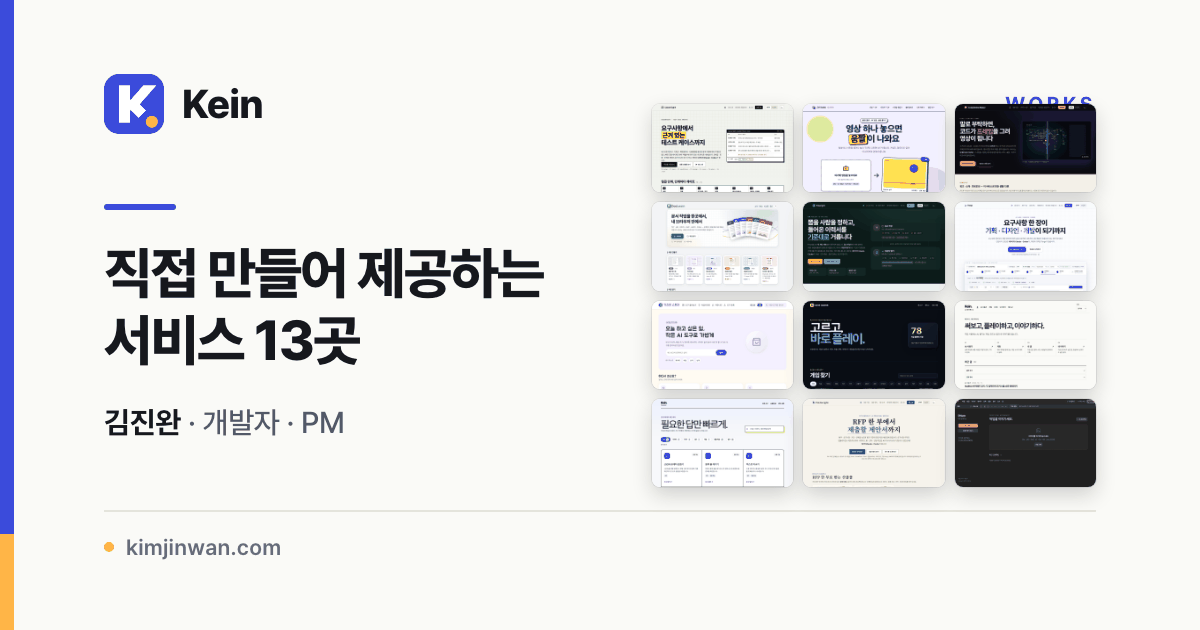
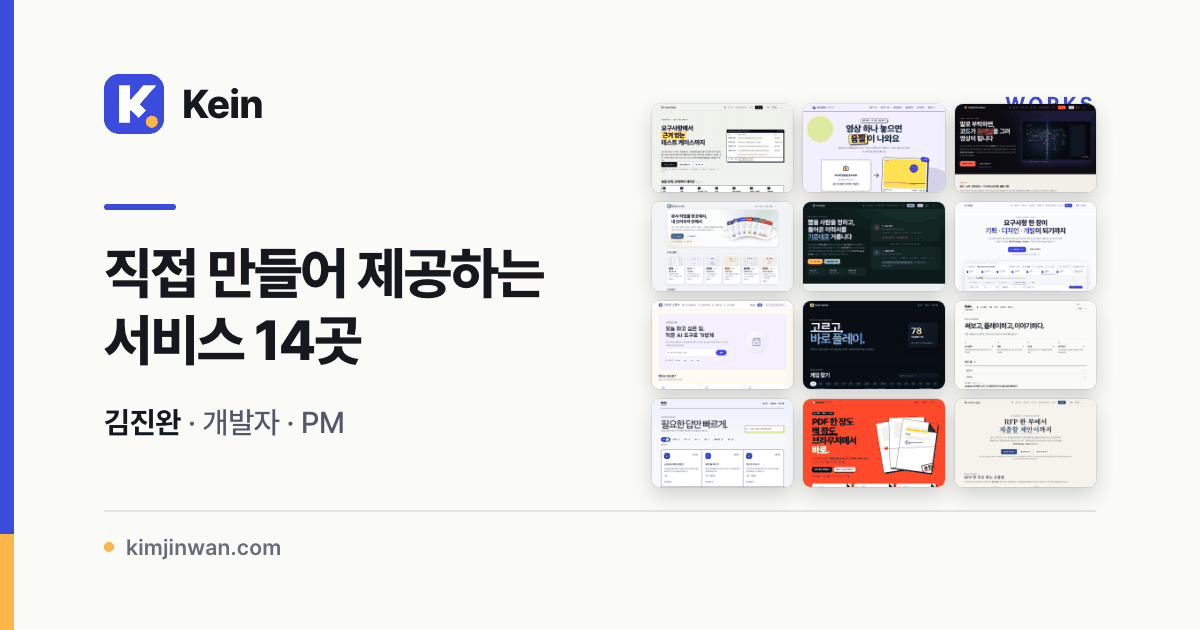
feat(home): Pagefold 서비스 추가 (1.3.32)

diff --git a/index.html b/index.html
@@ -4,7 +4,7 @@
 <meta charset="utf-8">
 <meta name="viewport" content="width=device-width,initial-scale=1">
 <title>김진완 — 개발자 · PM</title>
-<meta name="description" content="개발자·PM 김진완의 홈페이지. 직접 만들어 제공하는 서비스 13곳(문서·업무, 창작, 개발 도구와 웹게임, 웹 도구, 블로그), 그 생산을 맡은 공장 5곳, 11년 현장 경력을 소개합니다.">
+<meta name="description" content="개발자·PM 김진완의 홈페이지. 직접 만들어 제공하는 서비스 14곳(문서·업무, 창작, 개발 도구와 웹게임, 웹 도구, 블로그), 그 생산을 맡은 공장 5곳, 11년 현장 경력을 소개합니다.">
 <meta name="robots" content="index,follow">
 <meta name="author" content="김진완">
 <meta name="google-adsense-account" content="ca-pub-5544615855471151">
@@ -20,7 +20,7 @@
 <meta property="og:locale" content="ko_KR">
 <meta property="og:locale:alternate" content="en_US">
 <meta property="og:title" content="김진완 — 개발자 · PM">
-<meta property="og:description" content="개발자·PM 김진완의 홈페이지. 직접 만들어 제공하는 서비스 13곳(문서·업무, 창작, 개발 도구와 웹게임, 웹 도구, 블로그), 그 생산을 맡은 공장 5곳, 11년 현장 경력을 소개합니다.">
+<meta property="og:description" content="개발자·PM 김진완의 홈페이지. 직접 만들어 제공하는 서비스 14곳(문서·업무, 창작, 개발 도구와 웹게임, 웹 도구, 블로그), 그 생산을 맡은 공장 5곳, 11년 현장 경력을 소개합니다.">
 <meta property="og:url" content="https://kimjinwan.com/">
 <meta property="og:image" content="https://kimjinwan.com/assets/og/home.png?v=5471b7633f">
 <meta property="og:image:secure_url" content="https://kimjinwan.com/assets/og/home.png?v=5471b7633f">
@@ -30,13 +30,13 @@
 <meta property="og:image:alt" content="김진완 소개 영상의 마지막 장면 — 어두운 화면에 김진완, “논리로 만들고, 끝까지 운영합니다”, kimjinwan.com이 적혀 있다">
 <meta name="twitter:card" content="summary_large_image">
 <meta name="twitter:title" content="김진완 — 개발자 · PM">
-<meta name="twitter:description" content="개발자·PM 김진완의 홈페이지. 직접 만들어 제공하는 서비스 13곳(문서·업무, 창작, 개발 도구와 웹게임, 웹 도구, 블로그), 그 생산을 맡은 공장 5곳, 11년 현장 경력을 소개합니다.">
+<meta name="twitter:description" content="개발자·PM 김진완의 홈페이지. 직접 만들어 제공하는 서비스 14곳(문서·업무, 창작, 개발 도구와 웹게임, 웹 도구, 블로그), 그 생산을 맡은 공장 5곳, 11년 현장 경력을 소개합니다.">
 <meta name="twitter:image" content="https://kimjinwan.com/assets/og/home.png?v=5471b7633f">
 <meta name="twitter:image:alt" content="김진완 소개 영상의 마지막 장면 — 어두운 화면에 김진완, “논리로 만들고, 끝까지 운영합니다”, kimjinwan.com이 적혀 있다">
-<script type="application/ld+json">{"@context":"https://schema.org","@graph":[{"@type":"WebSite","@id":"https://kimjinwan.com/#website","url":"https://kimjinwan.com/","name":"Kein — 김진완","alternateName":["김진완 포트폴리오","Kim Jinwan"],"inLanguage":["ko","en"],"publisher":{"@id":"https://kimjinwan.com/#person"}},{"@type":"Person","@id":"https://kimjinwan.com/#person","name":"김진완","alternateName":["Kim Jinwan","Kein"],"url":"https://kimjinwan.com/","jobTitle":["Software Product Manager","Developer"],"knowsAbout":["PM / PO","Full-stack Dev","Team Leadership","AI Production"]},{"@type":"ProfilePage","@id":"https://kimjinwan.com/#profile","url":"https://kimjinwan.com/","name":"김진완 — 개발자 · PM","description":"개발자·PM 김진완의 홈페이지. 직접 만들어 제공하는 서비스 13곳(문서·업무, 창작, 개발 도구와 웹게임, 웹 도구, 블로그), 그 생산을 맡은 공장 5곳, 11년 현장 경력을 소개합니다.","inLanguage":"ko","dateModified":"2026-10-12","mainEntity":{"@id":"https://kimjinwan.com/#person"},"isPartOf":{"@id":"https://kimjinwan.com/#website"},"relatedLink":["https://service.kimjinwan.com/","https://blog.kimjinwan.com/","https://games.kimjinwan.com/","https://apps.kimjinwan.com/"],"primaryImageOfPage":{"@type":"ImageObject","@id":"https://kimjinwan.com/#primaryimage","url":"https://kimjinwan.com/assets/og/home.png?v=5471b7633f","contentUrl":"https://kimjinwan.com/assets/og/home.png?v=5471b7633f","thumbnailUrl":"https://kimjinwan.com/assets/og/home.png?v=5471b7633f","width":1200,"height":630,"caption":"김진완 소개 영상의 마지막 장면 — 어두운 화면에 김진완, “논리로 만들고, 끝까지 운영합니다”, kimjinwan.com이 적혀 있다"},"thumbnailUrl":"https://kimjinwan.com/assets/og/home.png?v=5471b7633f"},{"@type":"ItemList","@id":"https://kimjinwan.com/#services","name":"김진완이 직접 만들어 제공하는 서비스","numberOfItems":13,"itemListElement":[{"@type":"ListItem","position":1,"name":"Forge","url":"https://forge.kimjinwan.com/"},{"@type":"ListItem","position":2,"name":"Prism Studio","url":"https://prism-studio.kimjinwan.com/"},{"@type":"ListItem","position":3,"name":"Gizmo Store","url":"https://gizmo-store.com"},{"@type":"ListItem","position":4,"name":"DocLoom","url":"https://docloom.kimjinwan.com/"},{"@type":"ListItem","position":5,"name":"Pitchwright","url":"https://pitchwright.kimjinwan.com/"},{"@type":"ListItem","position":6,"name":"Casewright","url":"https://casewright.kimjinwan.com/"},{"@type":"ListItem","position":7,"name":"Fitwright","url":"https://fitwright.kimjinwan.com/"},{"@type":"ListItem","position":8,"name":"CodeMotionMaker","url":"https://codemotionmaker.kimjinwan.com/"},{"@type":"ListItem","position":9,"name":"Cel Studio","url":"https://cel-studio.kimjinwan.com/"},{"@type":"ListItem","position":10,"name":"Kein Journal","url":"https://blog.kimjinwan.com/ko/"},{"@type":"ListItem","position":11,"name":"Kein Games","url":"https://games.kimjinwan.com/"},{"@type":"ListItem","position":12,"name":"Kein Tools","url":"https://apps.kimjinwan.com/"},{"@type":"ListItem","position":13,"name":"Proofdesk","url":"https://proofdesk.kimjinwan.com/"}]}]}</script>
+<script type="application/ld+json">{"@context":"https://schema.org","@graph":[{"@type":"WebSite","@id":"https://kimjinwan.com/#website","url":"https://kimjinwan.com/","name":"Kein — 김진완","alternateName":["김진완 포트폴리오","Kim Jinwan"],"inLanguage":["ko","en"],"publisher":{"@id":"https://kimjinwan.com/#person"}},{"@type":"Person","@id":"https://kimjinwan.com/#person","name":"김진완","alternateName":["Kim Jinwan","Kein"],"url":"https://kimjinwan.com/","jobTitle":["Software Product Manager","Developer"],"knowsAbout":["PM / PO","Full-stack Dev","Team Leadership","AI Production"]},{"@type":"ProfilePage","@id":"https://kimjinwan.com/#profile","url":"https://kimjinwan.com/","name":"김진완 — 개발자 · PM","description":"개발자·PM 김진완의 홈페이지. 직접 만들어 제공하는 서비스 14곳(문서·업무, 창작, 개발 도구와 웹게임, 웹 도구, 블로그), 그 생산을 맡은 공장 5곳, 11년 현장 경력을 소개합니다.","inLanguage":"ko","dateModified":"2026-10-13","mainEntity":{"@id":"https://kimjinwan.com/#person"},"isPartOf":{"@id":"https://kimjinwan.com/#website"},"relatedLink":["https://service.kimjinwan.com/","https://blog.kimjinwan.com/","https://games.kimjinwan.com/","https://apps.kimjinwan.com/"],"primaryImageOfPage":{"@type":"ImageObject","@id":"https://kimjinwan.com/#primaryimage","url":"https://kimjinwan.com/assets/og/home.png?v=5471b7633f","contentUrl":"https://kimjinwan.com/assets/og/home.png?v=5471b7633f","thumbnailUrl":"https://kimjinwan.com/assets/og/home.png?v=5471b7633f","width":1200,"height":630,"caption":"김진완 소개 영상의 마지막 장면 — 어두운 화면에 김진완, “논리로 만들고, 끝까지 운영합니다”, kimjinwan.com이 적혀 있다"},"thumbnailUrl":"https://kimjinwan.com/assets/og/home.png?v=5471b7633f"},{"@type":"ItemList","@id":"https://kimjinwan.com/#services","name":"김진완이 직접 만들어 제공하는 서비스","numberOfItems":14,"itemListElement":[{"@type":"ListItem","position":1,"name":"Forge","url":"https://forge.kimjinwan.com/"},{"@type":"ListItem","position":2,"name":"Prism Studio","url":"https://prism-studio.kimjinwan.com/"},{"@type":"ListItem","position":3,"name":"Gizmo Store","url":"https://gizmo-store.com"},{"@type":"ListItem","position":4,"name":"DocLoom","url":"https://docloom.kimjinwan.com/"},{"@type":"ListItem","position":5,"name":"Pitchwright","url":"https://pitchwright.kimjinwan.com/"},{"@type":"ListItem","position":6,"name":"Casewright","url":"https://casewright.kimjinwan.com/"},{"@type":"ListItem","position":7,"name":"Fitwright","url":"https://fitwright.kimjinwan.com/"},{"@type":"ListItem","position":8,"name":"CodeMotionMaker","url":"https://codemotionmaker.kimjinwan.com/"},{"@type":"ListItem","position":9,"name":"Cel Studio","url":"https://cel-studio.kimjinwan.com/"},{"@type":"ListItem","position":10,"name":"Kein Journal","url":"https://blog.kimjinwan.com/ko/"},{"@type":"ListItem","position":11,"name":"Kein Games","url":"https://games.kimjinwan.com/"},{"@type":"ListItem","position":12,"name":"Kein Tools","url":"https://apps.kimjinwan.com/"},{"@type":"ListItem","position":13,"name":"Proofdesk","url":"https://proofdesk.kimjinwan.com/"},{"@type":"ListItem","position":14,"name":"Pagefold","url":"https://pagefold.kimjinwan.com/"}]}]}</script>
 <link rel="preconnect" href="https://cdn.jsdelivr.net">
 <link rel="stylesheet" href="https://cdn.jsdelivr.net/gh/orioncactus/pretendard@v1.3.9/dist/web/static/pretendard-dynamic-subset.css">
-<link rel="stylesheet" href="/css/style.css?v=1.3.31">
+<link rel="stylesheet" href="/css/style.css?v=1.3.32">
 <script src="/js/theme-core.js"></script>
 <script>document.documentElement.classList.add('js');__theme.apply()</script>
 </head>
@@ -82,7 +82,7 @@
   <div class="sec-head"><div class="sec-no"><svg class="ico" width="16" height="16" viewBox="0 0 24 24" fill="none" stroke="currentColor" stroke-width="1.75" stroke-linecap="round" stroke-linejoin="round" aria-hidden="true" focusable="false"><path d="M5 15c-1.5 1.2-2 4-2 6 2 0 4.8-.5 6-2"/><path d="M12 15 9 12c.5-4 4-8.5 11-9 0 7-5 10.5-8 12z"/><circle cx="15" cy="9" r="1.2"/></svg><b>01</b> Services</div>
     <h2 class="sec-title"><span data-lang-ko>직접 만들어 제공하는 서비스</span><span data-lang-en>Services I build and provide</span></h2></div>
     <p class="bridge"><span data-lang-ko>먼저 크게 만든 것들입니다. 전부 직접 만들었고, 지금도 실제 주소에서 제공하고 있습니다.</span><span data-lang-en>First, the big ones. I built every one myself, and they are all available at their live addresses.</span></p>
-    <div class="svc-block"><div class="svc-jump" role="group" aria-label="service categories"><button type="button" class="pill" data-svc-cat="all" aria-pressed="true"><svg class="ico" width="16" height="16" viewBox="0 0 24 24" fill="none" stroke="currentColor" stroke-width="1.75" stroke-linecap="round" stroke-linejoin="round" aria-hidden="true" focusable="false"><path d="m12 3 9 5-9 5-9-5z"/><path d="m3 13 9 5 9-5"/></svg><span data-lang-ko>전체</span><span data-lang-en>All</span><span class="pill-n mono">13</span></button><button type="button" class="pill" data-svc-cat="document" aria-pressed="false"><svg class="ico" width="16" height="16" viewBox="0 0 24 24" fill="none" stroke="currentColor" stroke-width="1.75" stroke-linecap="round" stroke-linejoin="round" aria-hidden="true" focusable="false"><path d="M14 3H7a2 2 0 0 0-2 2v14a2 2 0 0 0 2 2h10a2 2 0 0 0 2-2V8z"/><path d="M14 3v5h5"/><path d="M9 13h6M9 17h6"/></svg><span data-lang-ko>문서·업무</span><span data-lang-en>Documents &amp; work</span><span class="pill-n mono">4</span></button><button type="button" class="pill" data-svc-cat="creative" aria-pressed="false"><svg class="ico" width="16" height="16" viewBox="0 0 24 24" fill="none" stroke="currentColor" stroke-width="1.75" stroke-linecap="round" stroke-linejoin="round" aria-hidden="true" focusable="false"><path d="M12 3l1.9 5.1L19 10l-5.1 1.9L12 17l-1.9-5.1L5 10l5.1-1.9z"/><path d="M19 15v4M17 17h4"/></svg><span data-lang-ko>디자인·창작</span><span data-lang-en>Design &amp; creative</span><span class="pill-n mono">3</span></button><button type="button" class="pill" data-svc-cat="build" aria-pressed="false"><svg class="ico" width="16" height="16" viewBox="0 0 24 24" fill="none" stroke="currentColor" stroke-width="1.75" stroke-linecap="round" stroke-linejoin="round" aria-hidden="true" focusable="false"><path d="M14.7 6.3a4 4 0 0 0 5 5L21 13l-8 8-4-4-4 1 1-4 8-8z"/><path d="m15 9 3-3"/></svg><span data-lang-ko>개발·제작</span><span data-lang-en>Build &amp; make</span><span class="pill-n mono">2</span></button><button type="button" class="pill" data-svc-cat="hub" aria-pressed="false"><svg class="ico" width="16" height="16" viewBox="0 0 24 24" fill="none" stroke="currentColor" stroke-width="1.75" stroke-linecap="round" stroke-linejoin="round" aria-hidden="true" focusable="false"><rect x="2" y="7" width="20" height="11" rx="5"/><path d="M7 10.5v4M5 12.5h4"/><path d="M15.5 11.5h.01M18 13.5h.01"/></svg><span data-lang-ko>게임·도구·글</span><span data-lang-en>Games, tools &amp; writing</span><span class="pill-n mono">3</span></button><button type="button" class="pill" data-svc-cat="ai-tools" aria-pressed="false"><svg class="ico" width="16" height="16" viewBox="0 0 24 24" fill="none" stroke="currentColor" stroke-width="1.75" stroke-linecap="round" stroke-linejoin="round" aria-hidden="true" focusable="false"><path d="m12 3 9 5-9 5-9-5z"/><path d="m3 13 9 5 9-5"/></svg><span data-lang-ko>AI 도구 모음</span><span data-lang-en>AI tool collections</span><span class="pill-n mono">1</span></button></div>
+    <div class="svc-block"><div class="svc-jump" role="group" aria-label="service categories"><button type="button" class="pill" data-svc-cat="all" aria-pressed="true"><svg class="ico" width="16" height="16" viewBox="0 0 24 24" fill="none" stroke="currentColor" stroke-width="1.75" stroke-linecap="round" stroke-linejoin="round" aria-hidden="true" focusable="false"><path d="m12 3 9 5-9 5-9-5z"/><path d="m3 13 9 5 9-5"/></svg><span data-lang-ko>전체</span><span data-lang-en>All</span><span class="pill-n mono">14</span></button><button type="button" class="pill" data-svc-cat="document" aria-pressed="false"><svg class="ico" width="16" height="16" viewBox="0 0 24 24" fill="none" stroke="currentColor" stroke-width="1.75" stroke-linecap="round" stroke-linejoin="round" aria-hidden="true" focusable="false"><path d="M14 3H7a2 2 0 0 0-2 2v14a2 2 0 0 0 2 2h10a2 2 0 0 0 2-2V8z"/><path d="M14 3v5h5"/><path d="M9 13h6M9 17h6"/></svg><span data-lang-ko>문서·업무</span><span data-lang-en>Documents &amp; work</span><span class="pill-n mono">5</span></button><button type="button" class="pill" data-svc-cat="creative" aria-pressed="false"><svg class="ico" width="16" height="16" viewBox="0 0 24 24" fill="none" stroke="currentColor" stroke-width="1.75" stroke-linecap="round" stroke-linejoin="round" aria-hidden="true" focusable="false"><path d="M12 3l1.9 5.1L19 10l-5.1 1.9L12 17l-1.9-5.1L5 10l5.1-1.9z"/><path d="M19 15v4M17 17h4"/></svg><span data-lang-ko>디자인·창작</span><span data-lang-en>Design &amp; creative</span><span class="pill-n mono">3</span></button><button type="button" class="pill" data-svc-cat="build" aria-pressed="false"><svg class="ico" width="16" height="16" viewBox="0 0 24 24" fill="none" stroke="currentColor" stroke-width="1.75" stroke-linecap="round" stroke-linejoin="round" aria-hidden="true" focusable="false"><path d="M14.7 6.3a4 4 0 0 0 5 5L21 13l-8 8-4-4-4 1 1-4 8-8z"/><path d="m15 9 3-3"/></svg><span data-lang-ko>개발·제작</span><span data-lang-en>Build &amp; make</span><span class="pill-n mono">2</span></button><button type="button" class="pill" data-svc-cat="hub" aria-pressed="false"><svg class="ico" width="16" height="16" viewBox="0 0 24 24" fill="none" stroke="currentColor" stroke-width="1.75" stroke-linecap="round" stroke-linejoin="round" aria-hidden="true" focusable="false"><rect x="2" y="7" width="20" height="11" rx="5"/><path d="M7 10.5v4M5 12.5h4"/><path d="M15.5 11.5h.01M18 13.5h.01"/></svg><span data-lang-ko>게임·도구·글</span><span data-lang-en>Games, tools &amp; writing</span><span class="pill-n mono">3</span></button><button type="button" class="pill" data-svc-cat="ai-tools" aria-pressed="false"><svg class="ico" width="16" height="16" viewBox="0 0 24 24" fill="none" stroke="currentColor" stroke-width="1.75" stroke-linecap="round" stroke-linejoin="round" aria-hidden="true" focusable="false"><path d="m12 3 9 5-9 5-9-5z"/><path d="m3 13 9 5 9-5"/></svg><span data-lang-ko>AI 도구 모음</span><span data-lang-en>AI tool collections</span><span class="pill-n mono">1</span></button></div>
 <div class="svc-feature" id="svc-grid"><article class="card svc-wide" id="svc-casewright" data-category="build">
   <div class="svcw-shot"><img src="/assets/services/casewright.png" alt="Casewright screenshot" loading="lazy" width="640" height="400"></div>
   <div class="svcw-body">
@@ -191,6 +191,17 @@
     <p><span data-lang-ko>계산기부터 PDF·이미지 처리까지, 가입과 업로드 없이 기기 안에서 처리하는 실용 웹 도구 모음. 웹 도구 공장에서 한 번에 하나씩 만들어 공개하고, 도구마다 규칙과 한계를 함께 적었습니다.</span><span data-lang-en>A collection of practical web tools, from calculators to PDF and image utilities, processed on your device with no sign-up or upload. The web tools factory builds them one at a time, and each tool lists its rules and limits.</span></p>
     <div class="svcw-tools"><span class="svcw-lbl mono"><span data-lang-ko>함께 만든 AI</span><span data-lang-en>Built with</span></span><div class="chips"><span class="chip mono">Claude Code</span><span class="chip mono">Codex</span></div></div>
     <a class="btn btn-ghost svcw-open" href="https://apps.kimjinwan.com/" target="_blank" rel="noopener noreferrer"><span data-lang-ko>열기</span><span data-lang-en>Open</span><span class="mono svcw-host">apps.kimjinwan.com</span><svg class="ico ico-ext" width="14" height="14" viewBox="0 0 24 24" fill="none" stroke="currentColor" stroke-width="1.75" stroke-linecap="round" stroke-linejoin="round" aria-hidden="true" focusable="false"><path d="M7 17 17 7"/><path d="M8 7h9v9"/></svg></a>
+  </div>
+</article>
+<article class="card svc-wide" id="svc-pagefold" data-category="document">
+  <div class="svcw-shot"><img src="/assets/services/pagefold.png" alt="Pagefold screenshot" loading="lazy" width="640" height="400"></div>
+  <div class="svcw-body">
+    <div class="svc-meta"><span class="badge badge-live mono">LIVE</span><span class="kind mono"><svg class="ico" width="14" height="14" viewBox="0 0 24 24" fill="none" stroke="currentColor" stroke-width="1.75" stroke-linecap="round" stroke-linejoin="round" aria-hidden="true" focusable="false"><path d="M14 3H7a2 2 0 0 0-2 2v14a2 2 0 0 0 2 2h10a2 2 0 0 0 2-2V8z"/><path d="M14 3v5h5"/><path d="M9 13h6M9 17h6"/></svg><span data-lang-ko>문서·업무</span><span data-lang-en>Documents &amp; work</span></span></div>
+    <h5>Pagefold</h5>
+    <p class="svc-tag"><span data-lang-ko>업로드 없이 브라우저에서 PDF 편집 · 합치기 · 나누기</span><span data-lang-en>Edit, merge and split PDFs in the browser, no upload</span></p>
+    <p><span data-lang-ko>업로드 없이 브라우저 안에서 PDF를 합치고 나누고 고치는 웹 서비스. 쪽 정리 · 글자 · 형광펜 · 도형 · 서명 · 도장 · 가리기 · 양식 채우기를 하는 편집기와, 파일만 놓으면 바로 되는 합치기 · 나누기를 따로 제공합니다. 한글 PDF를 그대로 다루고 파일은 이 브라우저 밖으로 나가지 않습니다.</span><span data-lang-en>A web service for merging, splitting and editing PDFs inside the browser without uploading. It has an editor for page management, text, highlights, shapes, signatures, stamps, redaction and form filling, plus standalone merge and split tools. Korean PDFs work as they are, and files never leave the browser.</span></p>
+    <div class="svcw-tools"><span class="svcw-lbl mono"><span data-lang-ko>함께 만든 AI</span><span data-lang-en>Built with</span></span><div class="chips"><span class="chip mono">Claude Code</span></div></div>
+    <a class="btn btn-ghost svcw-open" href="https://pagefold.kimjinwan.com/" target="_blank" rel="noopener noreferrer"><span data-lang-ko>열기</span><span data-lang-en>Open</span><span class="mono svcw-host">pagefold.kimjinwan.com</span><svg class="ico ico-ext" width="14" height="14" viewBox="0 0 24 24" fill="none" stroke="currentColor" stroke-width="1.75" stroke-linecap="round" stroke-linejoin="round" aria-hidden="true" focusable="false"><path d="M7 17 17 7"/><path d="M8 7h9v9"/></svg></a>
   </div>
 </article>
 <article class="card svc-wide" id="svc-pitchwright" data-category="document">

diff --git a/works/index.html b/works/index.html
@@ -4,7 +4,7 @@
 <meta charset="utf-8">
 <meta name="viewport" content="width=device-width,initial-scale=1">
 <title>서비스 — 직접 만들어 제공하는 서비스 · 김진완</title>
-<meta name="description" content="김진완이 직접 만들어 제공하는 서비스 13곳과 웹게임, 웹 도구, 블로그, 앱을 한 페이지에 모았습니다. 분류별로 골라 보고 각 서비스의 현재 상태와 바로가기를 확인할 수 있습니다.">
+<meta name="description" content="김진완이 직접 만들어 제공하는 서비스 14곳과 웹게임, 웹 도구, 블로그, 앱을 한 페이지에 모았습니다. 분류별로 골라 보고 각 서비스의 현재 상태와 바로가기를 확인할 수 있습니다.">
 <meta name="robots" content="index,follow">
 <meta name="author" content="김진완">
 <meta name="google-adsense-account" content="ca-pub-5544615855471151">
@@ -20,23 +20,23 @@
 <meta property="og:locale" content="ko_KR">
 <meta property="og:locale:alternate" content="en_US">
 <meta property="og:title" content="서비스 — 직접 만들어 제공하는 서비스 · 김진완">
-<meta property="og:description" content="김진완이 직접 만들어 제공하는 서비스 13곳과 웹게임, 웹 도구, 블로그, 앱을 한 페이지에 모았습니다. 분류별로 골라 보고 각 서비스의 현재 상태와 바로가기를 확인할 수 있습니다.">
+<meta property="og:description" content="김진완이 직접 만들어 제공하는 서비스 14곳과 웹게임, 웹 도구, 블로그, 앱을 한 페이지에 모았습니다. 분류별로 골라 보고 각 서비스의 현재 상태와 바로가기를 확인할 수 있습니다.">
 <meta property="og:url" content="https://kimjinwan.com/works/">
-<meta property="og:image" content="https://kimjinwan.com/assets/og/works.png?v=074421a198">
-<meta property="og:image:secure_url" content="https://kimjinwan.com/assets/og/works.png?v=074421a198">
+<meta property="og:image" content="https://kimjinwan.com/assets/og/works.png?v=5428cacb28">
+<meta property="og:image:secure_url" content="https://kimjinwan.com/assets/og/works.png?v=5428cacb28">
 <meta property="og:image:type" content="image/png">
 <meta property="og:image:width" content="1200">
 <meta property="og:image:height" content="630">
-<meta property="og:image:alt" content="“직접 만들어 제공하는 서비스 13곳” — Kein 로고와 김진완 · 개발자 · PM, kimjinwan.com이 적힌 공유 카드">
+<meta property="og:image:alt" content="“직접 만들어 제공하는 서비스 14곳” — Kein 로고와 김진완 · 개발자 · PM, kimjinwan.com이 적힌 공유 카드">
 <meta name="twitter:card" content="summary_large_image">
 <meta name="twitter:title" content="서비스 — 직접 만들어 제공하는 서비스 · 김진완">
-<meta name="twitter:description" content="김진완이 직접 만들어 제공하는 서비스 13곳과 웹게임, 웹 도구, 블로그, 앱을 한 페이지에 모았습니다. 분류별로 골라 보고 각 서비스의 현재 상태와 바로가기를 확인할 수 있습니다.">
-<meta name="twitter:image" content="https://kimjinwan.com/assets/og/works.png?v=074421a198">
-<meta name="twitter:image:alt" content="“직접 만들어 제공하는 서비스 13곳” — Kein 로고와 김진완 · 개발자 · PM, kimjinwan.com이 적힌 공유 카드">
-<script type="application/ld+json">{"@context":"https://schema.org","@graph":[{"@type":"WebSite","@id":"https://kimjinwan.com/#website","url":"https://kimjinwan.com/","name":"Kein — 김진완","alternateName":["김진완 포트폴리오","Kim Jinwan"],"inLanguage":["ko","en"],"publisher":{"@id":"https://kimjinwan.com/#person"}},{"@type":"Person","@id":"https://kimjinwan.com/#person","name":"김진완","alternateName":["Kim Jinwan","Kein"],"url":"https://kimjinwan.com/","jobTitle":["Software Product Manager","Developer"],"knowsAbout":["PM / PO","Full-stack Dev","Team Leadership","AI Production"]},{"@type":"WebPage","@id":"https://kimjinwan.com/works/#webpage","url":"https://kimjinwan.com/works/","name":"서비스 — 직접 만들어 제공하는 서비스 · 김진완","description":"김진완이 직접 만들어 제공하는 서비스 13곳과 웹게임, 웹 도구, 블로그, 앱을 한 페이지에 모았습니다. 분류별로 골라 보고 각 서비스의 현재 상태와 바로가기를 확인할 수 있습니다.","inLanguage":"ko","dateModified":"2026-10-12","isPartOf":{"@id":"https://kimjinwan.com/#website"},"about":{"@id":"https://kimjinwan.com/#person"},"breadcrumb":{"@id":"https://kimjinwan.com/works/#breadcrumb"},"primaryImageOfPage":{"@type":"ImageObject","@id":"https://kimjinwan.com/works/#primaryimage","url":"https://kimjinwan.com/assets/og/works.png?v=074421a198","contentUrl":"https://kimjinwan.com/assets/og/works.png?v=074421a198","thumbnailUrl":"https://kimjinwan.com/assets/og/works.png?v=074421a198","width":1200,"height":630,"caption":"“직접 만들어 제공하는 서비스 13곳” — Kein 로고와 김진완 · 개발자 · PM, kimjinwan.com이 적힌 공유 카드"},"thumbnailUrl":"https://kimjinwan.com/assets/og/works.png?v=074421a198"},{"@type":"BreadcrumbList","@id":"https://kimjinwan.com/works/#breadcrumb","itemListElement":[{"@type":"ListItem","position":1,"name":"홈","item":"https://kimjinwan.com/"},{"@type":"ListItem","position":2,"name":"서비스","item":"https://kimjinwan.com/works/"}]}]}</script>
+<meta name="twitter:description" content="김진완이 직접 만들어 제공하는 서비스 14곳과 웹게임, 웹 도구, 블로그, 앱을 한 페이지에 모았습니다. 분류별로 골라 보고 각 서비스의 현재 상태와 바로가기를 확인할 수 있습니다.">
+<meta name="twitter:image" content="https://kimjinwan.com/assets/og/works.png?v=5428cacb28">
+<meta name="twitter:image:alt" content="“직접 만들어 제공하는 서비스 14곳” — Kein 로고와 김진완 · 개발자 · PM, kimjinwan.com이 적힌 공유 카드">
+<script type="application/ld+json">{"@context":"https://schema.org","@graph":[{"@type":"WebSite","@id":"https://kimjinwan.com/#website","url":"https://kimjinwan.com/","name":"Kein — 김진완","alternateName":["김진완 포트폴리오","Kim Jinwan"],"inLanguage":["ko","en"],"publisher":{"@id":"https://kimjinwan.com/#person"}},{"@type":"Person","@id":"https://kimjinwan.com/#person","name":"김진완","alternateName":["Kim Jinwan","Kein"],"url":"https://kimjinwan.com/","jobTitle":["Software Product Manager","Developer"],"knowsAbout":["PM / PO","Full-stack Dev","Team Leadership","AI Production"]},{"@type":"WebPage","@id":"https://kimjinwan.com/works/#webpage","url":"https://kimjinwan.com/works/","name":"서비스 — 직접 만들어 제공하는 서비스 · 김진완","description":"김진완이 직접 만들어 제공하는 서비스 14곳과 웹게임, 웹 도구, 블로그, 앱을 한 페이지에 모았습니다. 분류별로 골라 보고 각 서비스의 현재 상태와 바로가기를 확인할 수 있습니다.","inLanguage":"ko","dateModified":"2026-10-13","isPartOf":{"@id":"https://kimjinwan.com/#website"},"about":{"@id":"https://kimjinwan.com/#person"},"breadcrumb":{"@id":"https://kimjinwan.com/works/#breadcrumb"},"primaryImageOfPage":{"@type":"ImageObject","@id":"https://kimjinwan.com/works/#primaryimage","url":"https://kimjinwan.com/assets/og/works.png?v=5428cacb28","contentUrl":"https://kimjinwan.com/assets/og/works.png?v=5428cacb28","thumbnailUrl":"https://kimjinwan.com/assets/og/works.png?v=5428cacb28","width":1200,"height":630,"caption":"“직접 만들어 제공하는 서비스 14곳” — Kein 로고와 김진완 · 개발자 · PM, kimjinwan.com이 적힌 공유 카드"},"thumbnailUrl":"https://kimjinwan.com/assets/og/works.png?v=5428cacb28"},{"@type":"BreadcrumbList","@id":"https://kimjinwan.com/works/#breadcrumb","itemListElement":[{"@type":"ListItem","position":1,"name":"홈","item":"https://kimjinwan.com/"},{"@type":"ListItem","position":2,"name":"서비스","item":"https://kimjinwan.com/works/"}]}]}</script>
 <link rel="preconnect" href="https://cdn.jsdelivr.net">
 <link rel="stylesheet" href="https://cdn.jsdelivr.net/gh/orioncactus/pretendard@v1.3.9/dist/web/static/pretendard-dynamic-subset.css">
-<link rel="stylesheet" href="/css/style.css?v=1.3.31">
+<link rel="stylesheet" href="/css/style.css?v=1.3.32">
 <script src="/js/theme-core.js"></script>
 <script>document.documentElement.classList.add('js');__theme.apply()</script>
 </head>
@@ -177,6 +177,17 @@
     <p><span data-lang-ko>계산기부터 PDF·이미지 처리까지, 가입과 업로드 없이 기기 안에서 처리하는 실용 웹 도구 모음. 웹 도구 공장에서 한 번에 하나씩 만들어 공개하고, 도구마다 규칙과 한계를 함께 적었습니다.</span><span data-lang-en>A collection of practical web tools, from calculators to PDF and image utilities, processed on your device with no sign-up or upload. The web tools factory builds them one at a time, and each tool lists its rules and limits.</span></p>
     <div class="chips"><span class="chip mono">Claude Code</span><span class="chip mono">Codex</span></div>
     <a class="more" href="https://apps.kimjinwan.com/" target="_blank" rel="noopener noreferrer"><span data-lang-ko>열기</span><span data-lang-en>Open</span><svg class="ico ico-ext" width="14" height="14" viewBox="0 0 24 24" fill="none" stroke="currentColor" stroke-width="1.75" stroke-linecap="round" stroke-linejoin="round" aria-hidden="true" focusable="false"><path d="M7 17 17 7"/><path d="M8 7h9v9"/></svg></a>
+  </div>
+</article>
+<article class="card svc" data-kind="service" data-category="document">
+  <div class="svc-shot"><img src="/assets/services/pagefold.png" alt="Pagefold screenshot" loading="lazy" width="640" height="400"></div>
+  <div class="svc-body">
+    <div class="svc-meta"><span class="badge badge-live mono">LIVE</span><span class="kind mono"><svg class="ico" width="14" height="14" viewBox="0 0 24 24" fill="none" stroke="currentColor" stroke-width="1.75" stroke-linecap="round" stroke-linejoin="round" aria-hidden="true" focusable="false"><path d="m12 3 9 5-9 5-9-5z"/><path d="m3 13 9 5 9-5"/></svg><span data-lang-ko>문서·업무</span><span data-lang-en>Documents &amp; work</span></span></div>
+    <h3>Pagefold</h3>
+    <p class="svc-tag"><span data-lang-ko>업로드 없이 브라우저에서 PDF 편집 · 합치기 · 나누기</span><span data-lang-en>Edit, merge and split PDFs in the browser, no upload</span></p>
+    <p><span data-lang-ko>업로드 없이 브라우저 안에서 PDF를 합치고 나누고 고치는 웹 서비스. 쪽 정리 · 글자 · 형광펜 · 도형 · 서명 · 도장 · 가리기 · 양식 채우기를 하는 편집기와, 파일만 놓으면 바로 되는 합치기 · 나누기를 따로 제공합니다. 한글 PDF를 그대로 다루고 파일은 이 브라우저 밖으로 나가지 않습니다.</span><span data-lang-en>A web service for merging, splitting and editing PDFs inside the browser without uploading. It has an editor for page management, text, highlights, shapes, signatures, stamps, redaction and form filling, plus standalone merge and split tools. Korean PDFs work as they are, and files never leave the browser.</span></p>
+    <div class="chips"><span class="chip mono">Claude Code</span></div>
+    <a class="more" href="https://pagefold.kimjinwan.com/" target="_blank" rel="noopener noreferrer"><span data-lang-ko>열기</span><span data-lang-en>Open</span><svg class="ico ico-ext" width="14" height="14" viewBox="0 0 24 24" fill="none" stroke="currentColor" stroke-width="1.75" stroke-linecap="round" stroke-linejoin="round" aria-hidden="true" focusable="false"><path d="M7 17 17 7"/><path d="M8 7h9v9"/></svg></a>
   </div>
 </article>
 <article class="card svc" data-kind="service" data-category="document">

diff --git a/factories/index.html b/factories/index.html
@@ -33,10 +33,10 @@
 <meta name="twitter:description" content="앱, 웹게임, 쇼츠 영상, 블로그, 웹 도구를 꾸준히 만들어 내도록 직접 설계한 AI 공장 5곳. 공장마다 만드는 것과 거치는 단계, 출시 전에 확인하는 기준, 사람이 직접 맡는 일을 정리했습니다.">
 <meta name="twitter:image" content="https://kimjinwan.com/assets/og/factories.png?v=7e303932e4">
 <meta name="twitter:image:alt" content="“서비스를 만드는 AI 공장 5곳” — Kein 로고와 김진완 · 개발자 · PM, kimjinwan.com이 적힌 공유 카드">
-<script type="application/ld+json">{"@context":"https://schema.org","@graph":[{"@type":"WebSite","@id":"https://kimjinwan.com/#website","url":"https://kimjinwan.com/","name":"Kein — 김진완","alternateName":["김진완 포트폴리오","Kim Jinwan"],"inLanguage":["ko","en"],"publisher":{"@id":"https://kimjinwan.com/#person"}},{"@type":"Person","@id":"https://kimjinwan.com/#person","name":"김진완","alternateName":["Kim Jinwan","Kein"],"url":"https://kimjinwan.com/","jobTitle":["Software Product Manager","Developer"],"knowsAbout":["PM / PO","Full-stack Dev","Team Leadership","AI Production"]},{"@type":"WebPage","@id":"https://kimjinwan.com/factories/#webpage","url":"https://kimjinwan.com/factories/","name":"서비스를 만드는 AI 공장 5곳 — 김진완","description":"앱, 웹게임, 쇼츠 영상, 블로그, 웹 도구를 꾸준히 만들어 내도록 직접 설계한 AI 공장 5곳. 공장마다 만드는 것과 거치는 단계, 출시 전에 확인하는 기준, 사람이 직접 맡는 일을 정리했습니다.","inLanguage":"ko","dateModified":"2026-10-12","isPartOf":{"@id":"https://kimjinwan.com/#website"},"about":{"@id":"https://kimjinwan.com/#person"},"breadcrumb":{"@id":"https://kimjinwan.com/factories/#breadcrumb"},"primaryImageOfPage":{"@type":"ImageObject","@id":"https://kimjinwan.com/factories/#primaryimage","url":"https://kimjinwan.com/assets/og/factories.png?v=7e303932e4","contentUrl":"https://kimjinwan.com/assets/og/factories.png?v=7e303932e4","thumbnailUrl":"https://kimjinwan.com/assets/og/factories.png?v=7e303932e4","width":1200,"height":630,"caption":"“서비스를 만드는 AI 공장 5곳” — Kein 로고와 김진완 · 개발자 · PM, kimjinwan.com이 적힌 공유 카드"},"thumbnailUrl":"https://kimjinwan.com/assets/og/factories.png?v=7e303932e4"},{"@type":"BreadcrumbList","@id":"https://kimjinwan.com/factories/#breadcrumb","itemListElement":[{"@type":"ListItem","position":1,"name":"홈","item":"https://kimjinwan.com/"},{"@type":"ListItem","position":2,"name":"AI 공장","item":"https://kimjinwan.com/factories/"}]}]}</script>
+<script type="application/ld+json">{"@context":"https://schema.org","@graph":[{"@type":"WebSite","@id":"https://kimjinwan.com/#website","url":"https://kimjinwan.com/","name":"Kein — 김진완","alternateName":["김진완 포트폴리오","Kim Jinwan"],"inLanguage":["ko","en"],"publisher":{"@id":"https://kimjinwan.com/#person"}},{"@type":"Person","@id":"https://kimjinwan.com/#person","name":"김진완","alternateName":["Kim Jinwan","Kein"],"url":"https://kimjinwan.com/","jobTitle":["Software Product Manager","Developer"],"knowsAbout":["PM / PO","Full-stack Dev","Team Leadership","AI Production"]},{"@type":"WebPage","@id":"https://kimjinwan.com/factories/#webpage","url":"https://kimjinwan.com/factories/","name":"서비스를 만드는 AI 공장 5곳 — 김진완","description":"앱, 웹게임, 쇼츠 영상, 블로그, 웹 도구를 꾸준히 만들어 내도록 직접 설계한 AI 공장 5곳. 공장마다 만드는 것과 거치는 단계, 출시 전에 확인하는 기준, 사람이 직접 맡는 일을 정리했습니다.","inLanguage":"ko","dateModified":"2026-10-13","isPartOf":{"@id":"https://kimjinwan.com/#website"},"about":{"@id":"https://kimjinwan.com/#person"},"breadcrumb":{"@id":"https://kimjinwan.com/factories/#breadcrumb"},"primaryImageOfPage":{"@type":"ImageObject","@id":"https://kimjinwan.com/factories/#primaryimage","url":"https://kimjinwan.com/assets/og/factories.png?v=7e303932e4","contentUrl":"https://kimjinwan.com/assets/og/factories.png?v=7e303932e4","thumbnailUrl":"https://kimjinwan.com/assets/og/factories.png?v=7e303932e4","width":1200,"height":630,"caption":"“서비스를 만드는 AI 공장 5곳” — Kein 로고와 김진완 · 개발자 · PM, kimjinwan.com이 적힌 공유 카드"},"thumbnailUrl":"https://kimjinwan.com/assets/og/factories.png?v=7e303932e4"},{"@type":"BreadcrumbList","@id":"https://kimjinwan.com/factories/#breadcrumb","itemListElement":[{"@type":"ListItem","position":1,"name":"홈","item":"https://kimjinwan.com/"},{"@type":"ListItem","position":2,"name":"AI 공장","item":"https://kimjinwan.com/factories/"}]}]}</script>
 <link rel="preconnect" href="https://cdn.jsdelivr.net">
 <link rel="stylesheet" href="https://cdn.jsdelivr.net/gh/orioncactus/pretendard@v1.3.9/dist/web/static/pretendard-dynamic-subset.css">
-<link rel="stylesheet" href="/css/style.css?v=1.3.31">
+<link rel="stylesheet" href="/css/style.css?v=1.3.32">
 <script src="/js/theme-core.js"></script>
 <script>document.documentElement.classList.add('js');__theme.apply()</script>
 </head>

diff --git a/career/index.html b/career/index.html
@@ -33,10 +33,10 @@
 <meta name="twitter:description" content="영업·기획에서 시작해 개발자, 개발팀장, 차량 소프트웨어 PM까지 이어진 11년 경력과 수행 프로젝트 56개 전체. 시기별 역할과 대표 프로젝트, 경력을 게임으로 둘러보는 Career Run도 있습니다.">
 <meta name="twitter:image" content="https://kimjinwan.com/assets/og/career.png?v=dcb6fb39e3">
 <meta name="twitter:image:alt" content="“11년, 현장에서 쌓은 경력과 프로젝트 56개” — Kein 로고와 김진완 · 개발자 · PM, kimjinwan.com이 적힌 공유 카드">
-<script type="application/ld+json">{"@context":"https://schema.org","@graph":[{"@type":"WebSite","@id":"https://kimjinwan.com/#website","url":"https://kimjinwan.com/","name":"Kein — 김진완","alternateName":["김진완 포트폴리오","Kim Jinwan"],"inLanguage":["ko","en"],"publisher":{"@id":"https://kimjinwan.com/#person"}},{"@type":"Person","@id":"https://kimjinwan.com/#person","name":"김진완","alternateName":["Kim Jinwan","Kein"],"url":"https://kimjinwan.com/","jobTitle":["Software Product Manager","Developer"],"knowsAbout":["PM / PO","Full-stack Dev","Team Leadership","AI Production"]},{"@type":"WebPage","@id":"https://kimjinwan.com/career/#webpage","url":"https://kimjinwan.com/career/","name":"경력 11년과 프로젝트 56개 — 김진완","description":"영업·기획에서 시작해 개발자, 개발팀장, 차량 소프트웨어 PM까지 이어진 11년 경력과 수행 프로젝트 56개 전체. 시기별 역할과 대표 프로젝트, 경력을 게임으로 둘러보는 Career Run도 있습니다.","inLanguage":"ko","dateModified":"2026-10-12","isPartOf":{"@id":"https://kimjinwan.com/#website"},"about":{"@id":"https://kimjinwan.com/#person"},"breadcrumb":{"@id":"https://kimjinwan.com/career/#breadcrumb"},"primaryImageOfPage":{"@type":"ImageObject","@id":"https://kimjinwan.com/career/#primaryimage","url":"https://kimjinwan.com/assets/og/career.png?v=dcb6fb39e3","contentUrl":"https://kimjinwan.com/assets/og/career.png?v=dcb6fb39e3","thumbnailUrl":"https://kimjinwan.com/assets/og/career.png?v=dcb6fb39e3","width":1200,"height":630,"caption":"“11년, 현장에서 쌓은 경력과 프로젝트 56개” — Kein 로고와 김진완 · 개발자 · PM, kimjinwan.com이 적힌 공유 카드"},"thumbnailUrl":"https://kimjinwan.com/assets/og/career.png?v=dcb6fb39e3"},{"@type":"BreadcrumbList","@id":"https://kimjinwan.com/career/#breadcrumb","itemListElement":[{"@type":"ListItem","position":1,"name":"홈","item":"https://kimjinwan.com/"},{"@type":"ListItem","position":2,"name":"경력","item":"https://kimjinwan.com/career/"}]}]}</script>
+<script type="application/ld+json">{"@context":"https://schema.org","@graph":[{"@type":"WebSite","@id":"https://kimjinwan.com/#website","url":"https://kimjinwan.com/","name":"Kein — 김진완","alternateName":["김진완 포트폴리오","Kim Jinwan"],"inLanguage":["ko","en"],"publisher":{"@id":"https://kimjinwan.com/#person"}},{"@type":"Person","@id":"https://kimjinwan.com/#person","name":"김진완","alternateName":["Kim Jinwan","Kein"],"url":"https://kimjinwan.com/","jobTitle":["Software Product Manager","Developer"],"knowsAbout":["PM / PO","Full-stack Dev","Team Leadership","AI Production"]},{"@type":"WebPage","@id":"https://kimjinwan.com/career/#webpage","url":"https://kimjinwan.com/career/","name":"경력 11년과 프로젝트 56개 — 김진완","description":"영업·기획에서 시작해 개발자, 개발팀장, 차량 소프트웨어 PM까지 이어진 11년 경력과 수행 프로젝트 56개 전체. 시기별 역할과 대표 프로젝트, 경력을 게임으로 둘러보는 Career Run도 있습니다.","inLanguage":"ko","dateModified":"2026-10-13","isPartOf":{"@id":"https://kimjinwan.com/#website"},"about":{"@id":"https://kimjinwan.com/#person"},"breadcrumb":{"@id":"https://kimjinwan.com/career/#breadcrumb"},"primaryImageOfPage":{"@type":"ImageObject","@id":"https://kimjinwan.com/career/#primaryimage","url":"https://kimjinwan.com/assets/og/career.png?v=dcb6fb39e3","contentUrl":"https://kimjinwan.com/assets/og/career.png?v=dcb6fb39e3","thumbnailUrl":"https://kimjinwan.com/assets/og/career.png?v=dcb6fb39e3","width":1200,"height":630,"caption":"“11년, 현장에서 쌓은 경력과 프로젝트 56개” — Kein 로고와 김진완 · 개발자 · PM, kimjinwan.com이 적힌 공유 카드"},"thumbnailUrl":"https://kimjinwan.com/assets/og/career.png?v=dcb6fb39e3"},{"@type":"BreadcrumbList","@id":"https://kimjinwan.com/career/#breadcrumb","itemListElement":[{"@type":"ListItem","position":1,"name":"홈","item":"https://kimjinwan.com/"},{"@type":"ListItem","position":2,"name":"경력","item":"https://kimjinwan.com/career/"}]}]}</script>
 <link rel="preconnect" href="https://cdn.jsdelivr.net">
 <link rel="stylesheet" href="https://cdn.jsdelivr.net/gh/orioncactus/pretendard@v1.3.9/dist/web/static/pretendard-dynamic-subset.css">
-<link rel="stylesheet" href="/css/style.css?v=1.3.31">
+<link rel="stylesheet" href="/css/style.css?v=1.3.32">
 <script src="/js/theme-core.js"></script>
 <script>document.documentElement.classList.add('js');__theme.apply()</script>
 </head>
